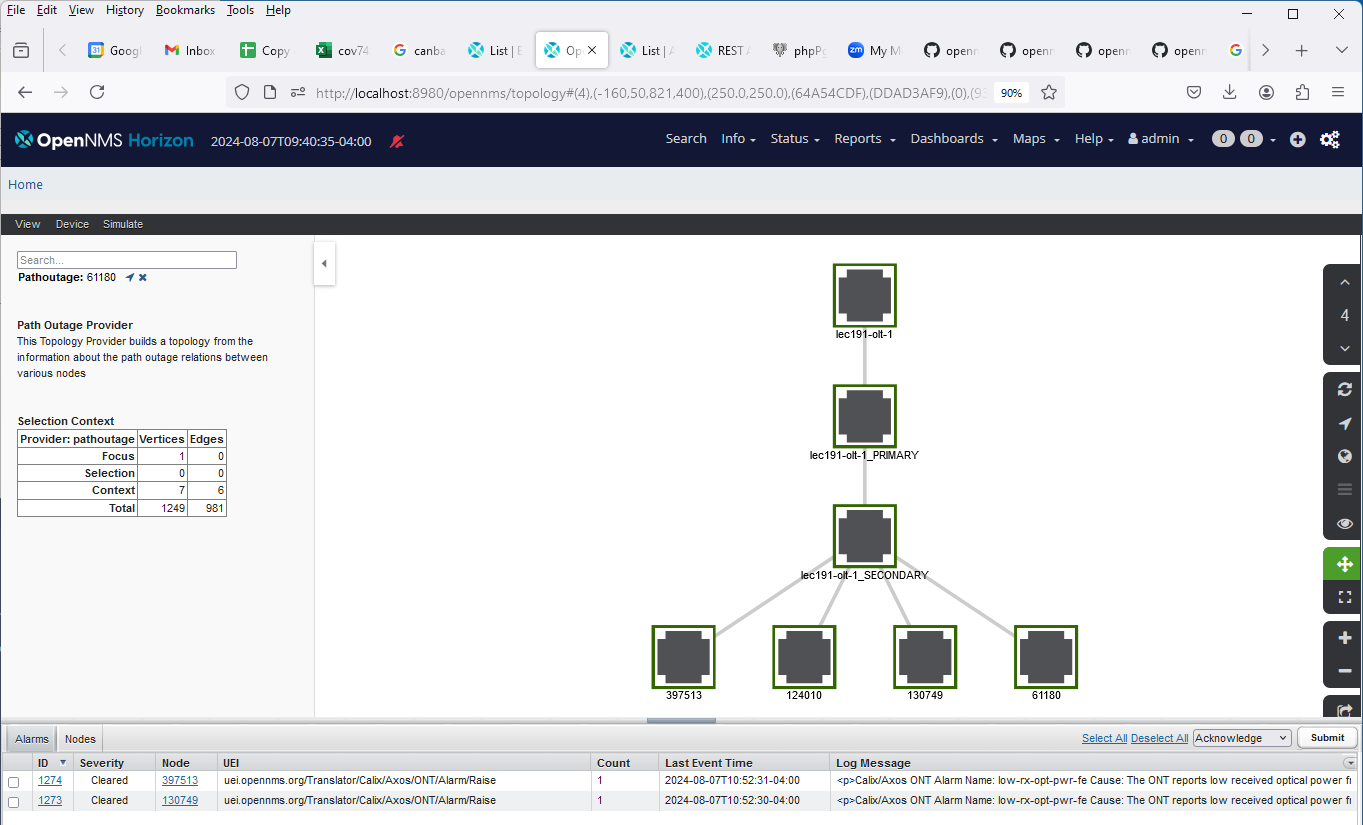
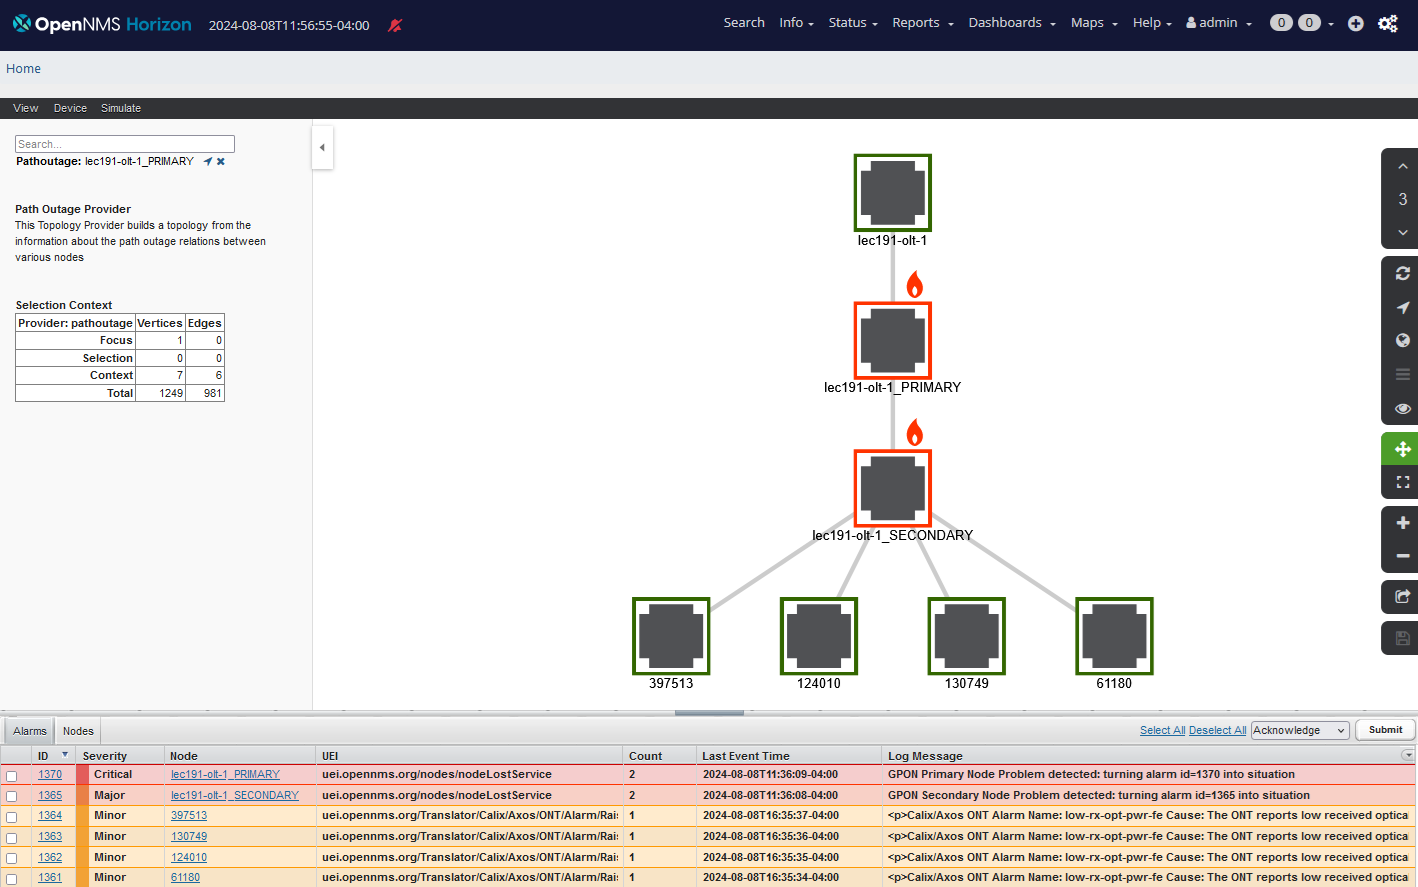
added description of the rules

diff --git a/workup/opennms-gpon-correlation-9/minimal-minion-kafka/docs/gpon-rules-scenario.md b/workup/opennms-gpon-correlation-9/minimal-minion-kafka/docs/gpon-rules-scenario.md
@@ -63,62 +63,138 @@ critical alarms which indicate a fibre break are any of the following
 
 More detailed breakdown (Simon Mc Bride 28 Jun 2024, 15:59)
 
-|Error Condition|OLT alarm| PE Alarm|Notes|
-|-----|---|---|---|
-|Customer ONT Ethernet Port state change | ont-eth-down / lan-los | CFM defMACstatus |   |
-|Power loss at ONT |  ont-dying-gasp / ont departed / onu-dying-gasp | CFM defRemoteCCM    |
-|Fibre break beween ONT and OLT | ont-missing / onu-loss-of-phy-layer |CFM defRemoteCCM    Can be at any point between customer premisis and OLT including Primary or Secondary Node in which case multiple customers might be impacted |
-|Fibre break between Primary Node and OLT |   loss-of-pon | CFM defRemoteCCM    Might also receive this message if a PON only has a single customer and that customer experiences a fibre break |
-|Bent fibre between ONT and OLT | low-rx-opt-pwr-fe / low-rx-opt-pwr-ne / transceiver-link-rx-power | Can be at any point between customer premises and OLT including Primary or Secondary Node in which case multiple customers might be impacted |
-|Failure of PON Optic  |  interface-module-failure |   CFM defRemoteCCM    |
-|Failure of OLT linecard |card-departed |  CFM defRemoteCCM    |
+|Error Condition                           |OLT alarm                   | PE Alarm               |Notes                               |
+|------------------------------------------|----------------------------|------------------------|------------------------------------|
+|Customer ONT Ethernet Port state change   | ont-eth-down / lan-los     | CFM defMACstatus       |                                    |
+|Power loss at ONT                         |  ont-dying-gasp / ont departed / onu-dying-gasp | CFM defRemoteCCM    |                  |
+|Fibre break beween ONT and OLT            | ont-missing / onu-loss-of-phy-layer | CFM defRemoteCCM  |  Can be at any point between customer premisis and OLT including Primary or Secondary Node in which case multiple customers might be impacted |
+|Fibre break between Primary Node and OLT  |   loss-of-pon | CFM defRemoteCCM   | Might also receive this message if a PON only has a single customer and that customer experiences a fibre break |
+|Bent fibre between ONT and OLT            | low-rx-opt-pwr-fe / low-rx-opt-pwr-ne / transceiver-link-rx-power |   | Can be at any point between customer premises and OLT including Primary or Secondary Node in which case multiple customers might be impacted |
+|Failure of PON Optic                      |  interface-module-failure  |   CFM defRemoteCCM     |              |
+|Failure of OLT linecard                   |card-departed               |  CFM defRemoteCCM      |          |
 |Failure of  single link in bundle interface between OLT and PE|  lacp-fault-on-port | n/a |
-|Failure of bundle interface between OLT and PE  lag-group-down | CFM defRemoteCCM   | |
+|Failure of bundle interface between OLT and PE | lag-group-down        | CFM defRemoteCCM   |  |
             
 
-## solution options
+## solution 
 
 The figure below illustrates the event flow and correlation within OpenNMS.
 
 ![Alt text](../docs/images/syslogprocessing.drawio.png)
 
-1. inventory
+### 1. inventory
 A correct inventory and network model is critical to any correlation. 
 OpenNMS can model tree networks using the parent node feature. 
 Within OpenNMS we represent ONTs, LTE's, PRIMARY NODES, SECODNARY NODES and connected PE routers.
 Each node is created with a link to it's parent node. 
-We also populate the asset table for each node with the serial number and asset number which are used as the key within LTE events to associate alarms with the correct OLT.
+We also populate the asset table for each node with the devices serial number and asset number which are used as the key within LTE events to associate alarms to the correct OLT.
+
+The Provisioning Integration Server (PRIS) is used to create the provisioning requisitions from a CSV file provided by the customer. 
+An extra translator process for pris is used to map the customer csv to the OpenNMS requisition including the parent relationships needed for the model.
+
+This allows us to visualise the GPON hierarchy as shown below.
 
 ![Alt text](../docs/images/gponHeirarchy.png)
 
-2. parsing events and syslogs
+### 2. parsing events and syslogs
 
 Nokia and Calix GPON devices use Syslog to report alarms. 
 The format of the syslogs and content of messages from both devices differ significantly. 
 The first stage of the process is to correctly parse these messages into useful OpenNMS Events
 
-3. creating new alarms for ONTs
+### 3. creating new alarms for ONTs
 
 The customer located ONT's do not generate any alarms directly but instead rely on problems being reported by their parent  OLT. 
-The event translator is used to parse the ONT identifiers from OLT events and do a database look up to find which Node in OpenNMS to associate the alarm with. 
+The event translator is used to parse the ONT identifiers (Asset or Serial numbers) from OLT events and do a database look up to find which Node in OpenNMS to associate the alarm with. 
 This process is performed in the event-translator.
 
 
-4. finding related alarms
+### 4. finding related alarms
 
-OpenNMS has the concept of a Situation which is an alarm that wraps other alarms and represents a collection of alarms around a network event.
+OpenNMS has the concept of a Situation which is an alarm that wraps other alarms and represents a collection of sympathetic alarms around a network event. The following image illustrates
+how situations are included in an alarm list. 
 
-to discover a situation, we need to use the topology to relate alarms and discover whether all of the OLT's below a network splitter have critical alarms. If all of the ONT's have a critical alarm, then we know that there is probably a problem with the fibre above the splitter
+![Alt text](../docs/images/situationsA.png)
 
-We have used the critical alarm list given above in the corelation. 
-If all of the ONT's below a SECONDARY NODE have any one of the critical alarms, we create a situation 
+A Situation is illustrated below.
+Note that a Situation is an alarm with associated alarms (which can also be situations).
+In this case all four ONT's below lec191-olt-secondary have low-rx-opt-pwf-fe alarms.
+
+![Alt text](../docs/images/situationsB.png)
+
+To discover a situation, we need to use the topology model to relate alarms and discover whether all of the OLT's below a network splitter have critical alarms. 
+If all of the ONT's have a critical alarm, then we know that there is probably a problem with the fibre above the splitter
+
+If all of the ONT's below a SECONDARY NODE have any one of the critical alarms described above, we create a situation.
+
+### Situation detection using JDBC poller
+
+We use database scanning using the JDBC service poller to run sql queries repeatedly every minute to find these situations. 
+If a situation is found a service down alarm is created for the passive splitter.
+
+The image below shows the jdbc poller service passive-secondary-node running for lec191-olt-1_SECONDARY
+
+![Alt text](../docs/images/jdbcservice.png)
+
+The effective query is shown in the poller service parameters and is superficially quite complex
+
+It is broken down below
+
+```
+WITH 
+    parent_id_query AS (SELECT n.nodeid AS parentId FROM node n WHERE n.foreignsource='gpon3' AND n.foreignid='lec191-olt-1_SECONDARY' ), 
+
+    child_count_query AS (SELECT COUNT(*) AS childCount FROM node n WHERE n.nodeparentid IN (SELECT parentId FROM parent_id_query) ),
+
+    distinct_alarm_count_query AS (SELECT COUNT(*) AS distinctAlarmCount FROM ( 
+        SELECT DISTINCT al.nodeid FROM alarms al INNER JOIN 
+        string_to_table('ont-eth-down,ont-dying-gasp,ont-missing,low-rx-opt-pwr-fe,loss-of-pon,lacp-fault-on-port,lag-group-down,duplex-system-failure,card-departed,lan-los,onu-dying-gasp,onu-loss-of-phy-layer,transceiver-link-rx-power', ',') 
+        AS t(name) ON al.reductionkey LIKE CONCAT( '%:',name) 
+
+        WHERE al.severity>3 AND al.nodeid IN (SELECT n.nodeid FROM node n WHERE n.nodeparentid IN (SELECT parentId FROM parent_id_query)) 
+        ) AS tempTable ) 
+
+SELECT (CASE WHEN childCount=0 THEN 0 WHEN distinctAlarmCount>= childCount THEN 1 ELSE 0 END) AS serviceDown, childCount, distinctAlarmCount FROM child_count_query, distinct_alarm_count_query 
+```
+
+For a service to be down, a JDBC poller query must return a single row with a column serviceDown = 1 if a problem is detected and serviceDown = 0 if there is no problem.
+
+Starting with the last SELECT statement, we can see that a serviceDown=1 is generated if distinctAlarmCount is greater or equal to the childCount
+
+The childCount is the number of ONT nodes which have the lec191-olt-1_SECONDARY node as their parent node.
+
+The distinctAlarmCount is the number of child nodes with one or more critical alarms.
+
+If the distinctAlarmCount is equal to the number of child ONT nodes, then all the OLT's connected to the secondary node have a critical problem and so the fibre between the secondary node and the primary node is probably cut.
+
+Three sub queries are defined in a WITH statement to get this result.
+
+parent_id_query finds all the primary keys for all the nodes (OLTs) which have lec191-olt-1_SECONDARY as their parent
+
+child_count_query uses the parent_id_query to count the number of children which have lec191-olt-1_SECONDARY as their parent
+
+distinct_alarm_count_query looks for all the nodes found from the parent_id_query which have one or more critical alarm(s).
+
+The alarm type is determined by the last segment of the alarm reduction key 
+
+for instance in alarm 1364, the reduction key is `uei.opennms.org/Translator/Calix/Axos/ONT/Alarm/Raise::867:low-rx-opt-pwr-fe`
+
+The distinctAlarmCount has a constant name table which defines the names of all of the possible alarm types we care about (and which can be changed to match new alarms).
+
+This contains low-rx-opt-pwr-fe and so the query will match alarm 1364
+
+So the query is looking for alarms with severity>3 ( i.e. not cleared) and alarm type in the names table and the node is a child of the lec191-olt-1_SECONDARY
+
+Thus the  distinct_alarm_count_query counts each node for which one or more critical alarm match is found.
 
 
-We use database scanning using the JDBC service to run sql queries repeatedly to find these situations. 
-If a situation is found a service down alarm is created for the passive splitter
+# situation creation using Drools rules
 
-We use Drools rules to create the situation from these service down events.
-the Drools rule looks for service down alarms on splitter and then looks for all alarms below the spliter to associate into a situation.
+We use Drools rules to create the situation from the service down events detected using the database query above.
+
+the Drools rule looks for service down alarms on each splitter and then looks for all alarms below the splitter to associate into a situation.
+
+It does not itself detect the situation but gathers all of the alarms below a splitter node where a situation is suspected.
 
 
 
